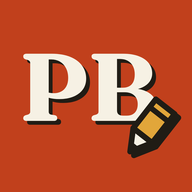
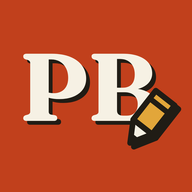
Icônes : crayon au cran R2 sur les grandes tailles
Le crayon monte franchement sur le B pour l'écran d'accueil et la PWA
(512, 192, 180). En dessous il reste au cran précédent : à 24/32/48px
il referme la boucle du B et l'icône se lit "PP". Le 16px n'a
toujours pas de crayon.

La superposition dépend donc de la taille, c'est noté dans CLAUDE.md
avec la façon de le revérifier.

Claude-Session: https://claude.ai/code/session_012H1AEPeKH9MRizY2VAo6uG

Changed region(s): [[0.6562, 0.4375, 0.9688, 0.8438]]

diff --git a/CLAUDE.md b/CLAUDE.md
@@ -6,7 +6,7 @@ Contexte projet pour Claude Code. Lis ce fichier avant de faire des changements 
 
 App web "Petit Bac" multijoueur en temps réel. **Un seul fichier** `index.html` autonome (HTML + CSS + JS inline), pas de build, pas de framework, pas de `package.json`. Déployé sur Vercel, connecté à ce repo GitHub — un push sur `main` redéploie automatiquement en ~20-30s. Les autres fichiers à la racine (`manifest.json`, `favicon*.png/ico`, `apple-touch-icon.png`, `icon-*.png`) sont les assets PWA, référencés en chemins absolus (`/favicon.ico`, etc.) depuis `index.html`.
 
-**Icônes** : « PB » en Fraunces crème, ombre portée dure à l'encre, crayon moutarde en bas à droite qui mord sur le B, le tout sur fond brique. Elles ne sont pas dessinées à la main : la même compo est composée en HTML/SVG (la vraie Fraunces-Bold embarquée en base64, le crayon de `brandMark()` avec le corps en `--accent-2`), Chromium capture, Pillow réduit et assemble le `.ico`. Deux points à ne pas perdre si tu les régénères : le **16px n'a pas de crayon** (à cette taille il devient une tache et mange la lisibilité du PB), et `icon-512-maskable.png` est une version **rentrée à 74 %** parce qu'Android recadre les icônes `purpose: maskable` dans un cercle de 80 % — avec l'icône pleine page, la gomme du crayon et la sérif gauche du P sautent.
+**Icônes** : « PB » en Fraunces crème, ombre portée dure à l'encre, crayon moutarde en bas à droite qui mord sur le B, le tout sur fond brique. Elles ne sont pas dessinées à la main : la même compo est composée en HTML/SVG (la vraie Fraunces-Bold embarquée en base64, le crayon de `brandMark()` avec le corps en `--accent-2`), Chromium capture, Pillow réduit et assemble le `.ico`. Trois points à ne pas perdre si tu les régénères. Le **16px n'a pas de crayon** : à cette taille il devient une tache et mange la lisibilité du PB. **La superposition du crayon dépend de la taille** : bien remonté sur le B au-dessus de 100px (écran d'accueil, PWA), un cran plus bas à 24/32/48px, parce que le crayon referme la boucle du B une fois réduit et que l'icône se met à se lire « PP ». Et `icon-512-maskable.png` est une version **rentrée à 74 %** parce qu'Android recadre les icônes `purpose: maskable` dans un cercle de 80 % — avec l'icône pleine page, la gomme du crayon et la sérif gauche du P sautent. Les trois se vérifient à l'œil : rendre chaque taille en vrai, zoomer en `image-rendering:pixelated`, et passer la 512 sous un masque circulaire.
 
 ## Règles de code à respecter
 
